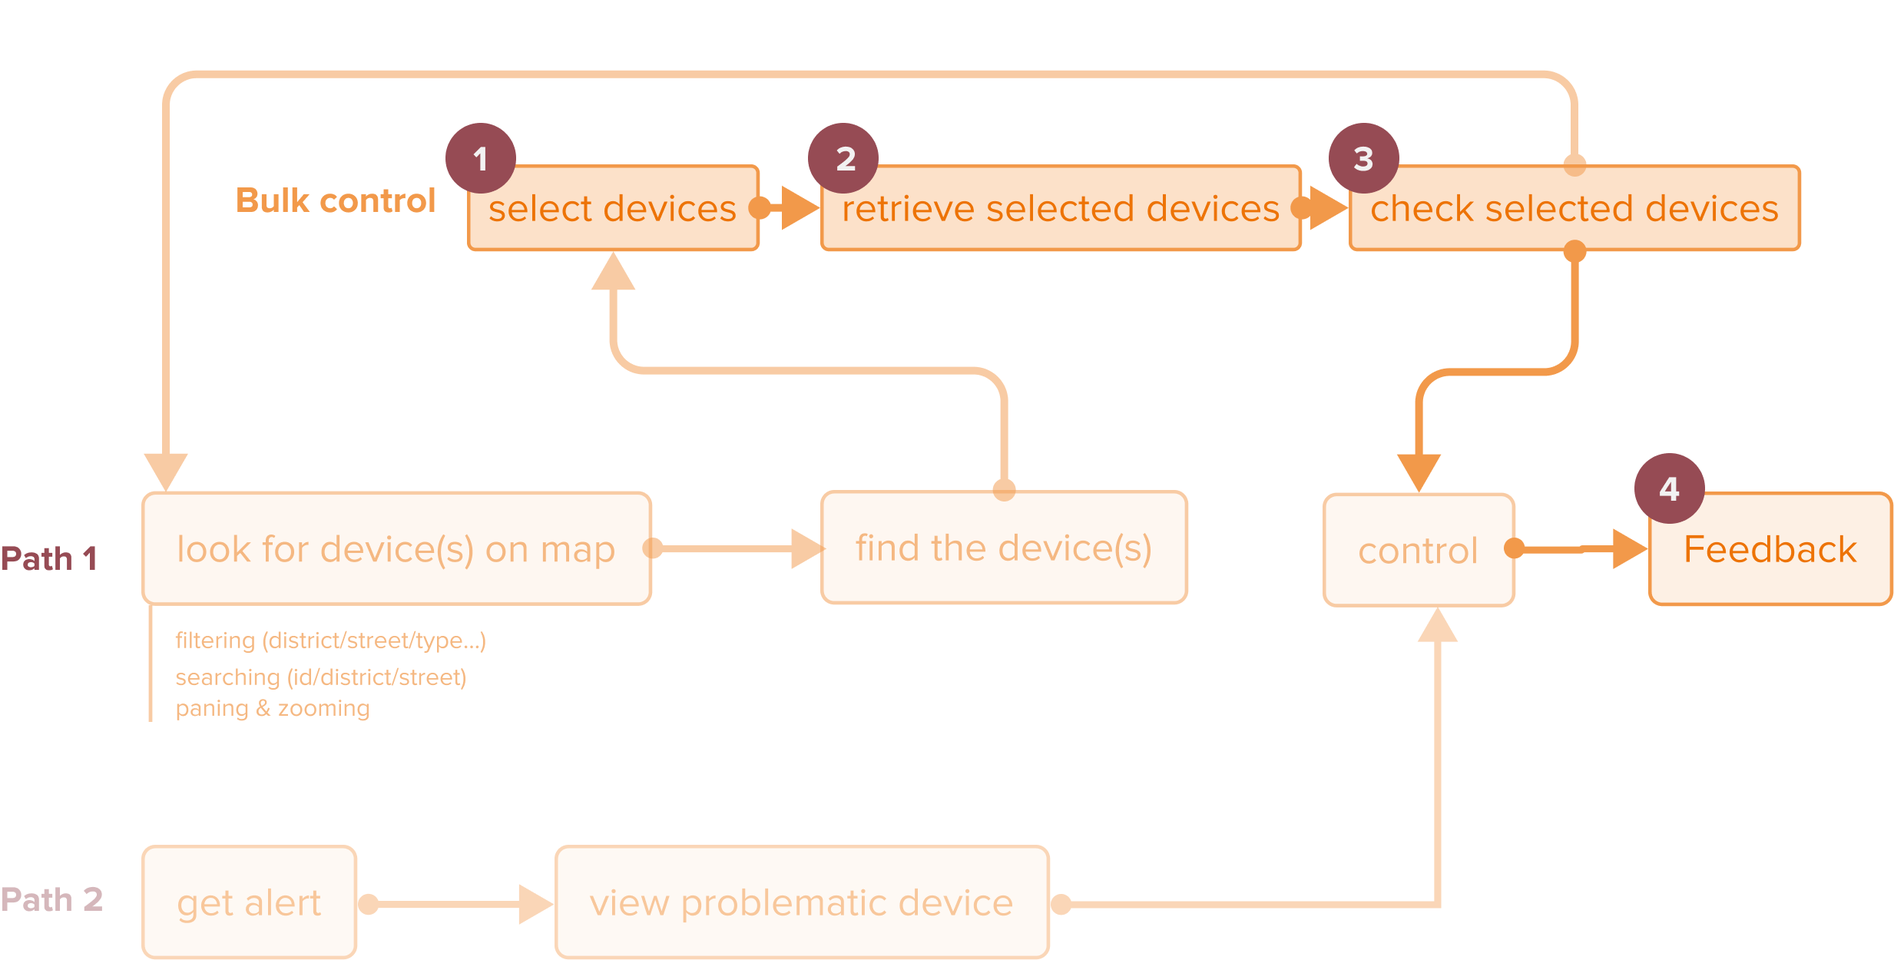
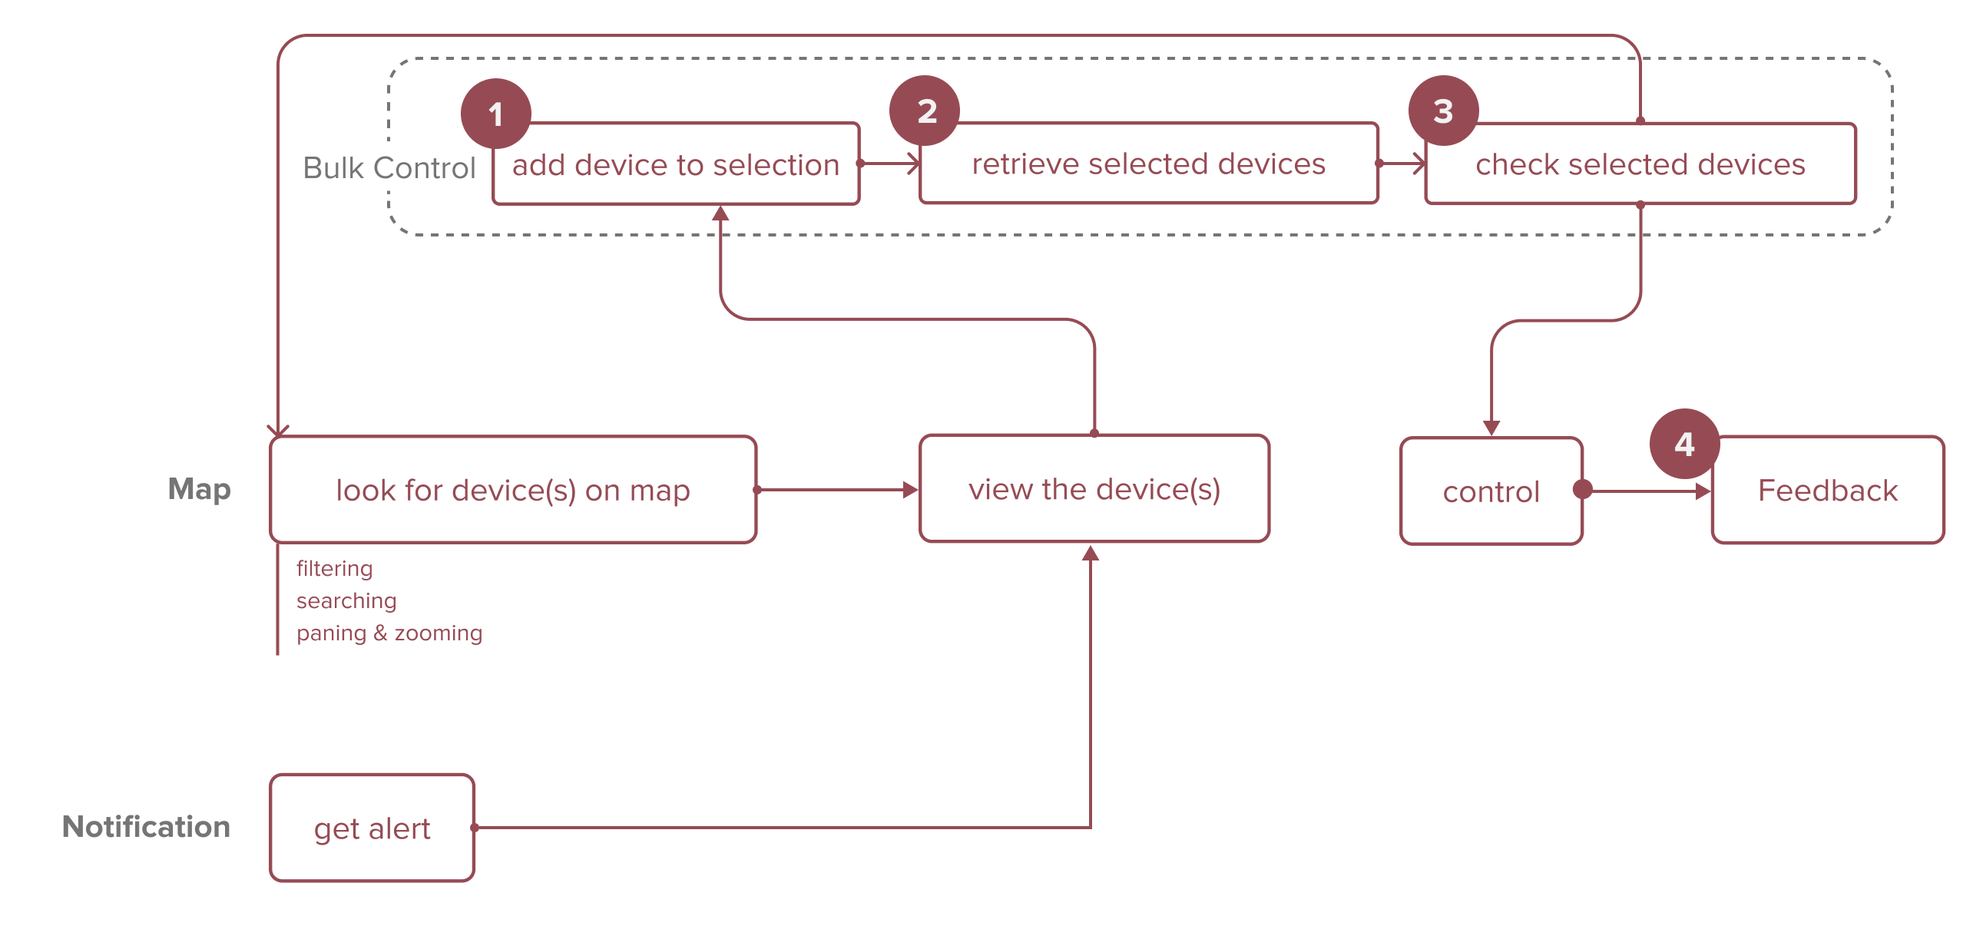
iot rework

Changed region(s): [[0.0, 0.0306, 1.0, 1.0], [0.0624, 0.0917, 0.6557, 0.7645], [0.0, 0.5504, 0.0312, 0.6116]]

diff --git a/src/pages/Designer/IoTBest.js b/src/pages/Designer/IoTBest.js
@@ -364,7 +364,7 @@ class IoTBest extends React.Component {
                             <section className="project_body" id="syn">
                                 <h2>Synthesize</h2>
                                 <h5>Three Scenarios, Three Problems</h5>
-                                {/* <h6></h6> */}
+                                <p>Administrators decide when the lights should turn on and off and how bright they should be based on time, days and areas. These settings are called work plan. There are three scenarios when administrators need to set or change the work plans.</p>
 
                                 <ImageZoom
                                     image={{
@@ -374,27 +374,34 @@ class IoTBest extends React.Component {
                                     }}
 
                                 />
-                                <br />
                                 
                             </section>
 
 
                             <section className="project_body" id="ideate">
                                 <h2>Ideate</h2>
-
-                                <h5>Design Goals</h5>
-                                <div className="project_quote">
-                                    <div className="project_separator_inner_wrapper_small">
-                                        <div className="project_quote_text">1. Automate default plan configuration</div>
-                                        <div className="project_quote_text">2. Preset special plan for special occasions</div>
-                                        <div className="project_quote_text">3. Quickly locate and control of light in emergency</div>
-                                    </div>
-
-                                </div>
-
-                                {/* <ImageZoom
+                                <h5>How might we help administrators work efficiently with the new Smart Street Lights?</h5>
+                                <p>After brainstorming with the engineering team, we decided to focus on these three ideas.</p>
+                                <ImageZoom
                                     image={{
-                                        src: '/images/IoT/problemsolution_lightcontrol.png',
+                                        src: '/images/IoT/features.png',
+                                        alt: '',
+                                        className: 'project_illustration'
+                                    }}
+
+                                />
+
+                         
+
+                            </section>
+                            <section className="project_body" id="design">
+                                <h2>Design</h2>
+                                <h5>User flows and wireframes</h5>
+
+                                <p>So I started with mapping the user flows of each scenario and how the new system is going to support each of the steps. I then wireframed the possible interfaces of the system.</p>
+                                <ImageZoom
+                                    image={{
+                                        src: '/images/IoT/user_flow.png',
                                         alt: '',
                                         className: 'project_illustration'
                                     }}
@@ -402,21 +409,13 @@ class IoTBest extends React.Component {
                                 />
                                 <ImageZoom
                                     image={{
-                                        src: '/images/IoT/idea.png',
+                                        src: '/images/IoT/wireframe.png',
                                         alt: '',
-                                        className: 'project_illustration_medium'
+                                        className: 'project_illustration'
                                     }}
-
-                                /> */}
-
-                            </section>
-                            <section className="project_body" id="design">
-                                <h2>Design</h2>
-                                <h5>User flows and wireframes</h5>
-
-                                {/* <p>So I started with mapping the user flows of each scenario and how the new system was going to support each of the steps. I then wireframed the possible interfaces of the system.</p> */}
-                                <h6>1. Default plan setup: display automations and give controls</h6>
-                                <p>Since the most laborious part of the job was going to be done by the IoT system, the management tool only needs to expose enough information and give enough controls to the users so that they can <b>trust</b> the new system.</p>
+                                />
+                                {/* <h6>1. Smart Default Plan</h6>
+                                <p>Since the most laborious part, the automation, is going to be done by the IoT system, the management tool only needs to show system status and give enough controls to the users so that they can <b>trust</b> the new system.</p>
                                 <ImageZoom
                                     image={{
                                         src: '/images/IoT/daytoday.png',
@@ -434,11 +433,11 @@ class IoTBest extends React.Component {
                                         className: 'project_illustration'
                                     }}
 
-                                />
+                                /> */}
                                  <div className="project_separator">
                                     
                                     <div className="project_separator_inner_wrapper" >
-                                        <div className="project_separator_title">Challenge: how to make work-hour setting more intuitive?</div>
+                                        <div className="project_separator_title">Challenge #1 How to make work-hour setting more intuitive?</div>
                                         <p>A challenge I faced in wireframing the setting interface is how to make the work plan setting interface more intuitive and provide users with more visual hints.</p>
                                     <ImageZoom
                                         image={{
@@ -453,7 +452,7 @@ class IoTBest extends React.Component {
                                 <p>Finally, I decided to first combine these two ways of settings and test the features in usability testing later.</p>
                                     </div>
                                 </div>
-                               
+{/*                                
                                 
                                 <h6>3. Emergency Control</h6>
                                 <p>To improve information navigation, my design allows users to look for and control device(s) on a map and from an alert.</p>
@@ -472,23 +471,13 @@ class IoTBest extends React.Component {
                                         className: 'project_illustration'
                                     }}
 
-                                />
+                                /> */}
                                 <div className="project_separator">
                                     
                                     <div className="project_separator_inner_wrapper" >
-                                        <div className="project_separator_title">Challenge: how to simplify bulk control?
+                                        <div className="project_separator_title">Challenge #2 How to simplify bulk control?
                                         </div>  
-                                        <p>One challenge I encountered was how to allow users to control a group of lights quickly and easily. I introduced the "selected list" and created variations of the interfaces for multi-selection and multi-control feedback.</p>
-                                        {this.state.hide4 ? (<>
-                                    <div className="hiden_content_switch_container text-center">
-                                        <button class="uk-button uk-button-secondary uk-width-1-1" onClick={() => this.toggleHiddenContent("hide4")}><span uk-icon="icon: search"></span> Click to See Detailed Exploration of Bulk Control</button>
-                                    </div></>) : (<>
-                                        <div className="hiden_content_switch_container text-center">
-                                            <button class="uk-button uk-button-secondary uk-width-1-1" onClick={() => this.toggleHiddenContent("hide4")}>Hide Detailed Exploration</button>
-                                        </div>
-                                        {/* ----------------hidden 👇---------------------- */}
-
-                                       
+                                        <p>One challenge I encountered was how to allow users to control a group of lights quickly and easily. I introduced the "selected list" and mapped the user flow.</p>
                                         <ImageZoom
                                             image={{
                                                 src: '/images/IoT/bulkcontrol/bulk_workflow.png',
@@ -500,83 +489,84 @@ class IoTBest extends React.Component {
                                         <p className="project_info">I ideated four ways to select multiple devices.</p>
                                         <ImageZoom
                                             image={{
-                                                src: '/images/IoT/bulkcontrol/select1.png',
+                                                src: '/images/IoT/bulkcontrol/select.gif',
                                                 alt: '',
                                                 className: 'project_illustration'
                                             }}
 
-                                        /><ImageZoom
-                                        image={{
-                                            src: '/images/IoT/bulkcontrol/select2.png',
-                                            alt: '',
-                                            className: 'project_illustration'
-                                        }}
+                                        />
+                                        <p className="project_info">Since administrators usually control lights by defined areas (administrative divisions), the 'selet-an-area' button is more useful for them. Moreover, multi-selection on map is the ideal way to select devices by undefined areas such as all lights at an intersection. So I decided to <b>combine these two (2 & 3)</b>.</p>
 
-                                    />
-                                        <p className="project_info">Since administrators usually control lights by defined areas (administrative divisions), the 'selet-an-area' button is more useful for them. Moreover, multi-selection on map is the ideal way to select devices by undefined areas such as all lights at an intersection. So I decided to <b>combine these two (3 & 4)</b>.</p>
+                                       
+                                        <div className="p-list"><div className="circle_number">2</div>Retrieve Selected Device</div>
+                                        <p className="project_info">Another thing that need to be considered was where the "selected device" button should be located. I wireframed four locations of the button and finally decided to put the button at top since it was the most straightforward version and produced no ambiguity of its scope.</p>
+                                        <Row>
+                                            <Col>
+                                                <ImageZoom
+                                                image={{
+                                                    src: '/images/IoT/bulkcontrol/retrieve_button1.png',
+                                                    alt: '',
+                                                    className: 'project_illustration'
+                                                }}
 
+                                                    />
+                                            </Col>
+                                            <Col>
+                                                <ImageZoom
+                                                        image={{
+                                                            src: '/images/IoT/bulkcontrol/retrieve_button2.png',
+                                                            alt: '',
+                                                            className: 'project_illustration'
+                                                        }}
+
+                                                    />
+                                            </Col>
+                                        </Row>
+                                        
+                                       
+                                        <div className="p-list"><div className="circle_number">3</div>Check Selected Device</div>
+                                        <p className="project_info">As for how to display selected devices, I created the following wireframes.</p>
+                                        <Row>
+                                            <Col>
+                                                <ImageZoom
+                                                    image={{
+                                                        src: '/images/IoT/bulkcontrol/retrieve_display1.png',
+                                                        alt: '',
+                                                        className: 'project_illustration'
+                                                    }}
+
+                                                />
+                                            </Col>
+                                            <Col>
+                                                <ImageZoom
+                                                    image={{
+                                                        src: '/images/IoT/bulkcontrol/retrieve_display2.png',
+                                                        alt: '',
+                                                        className: 'project_illustration'
+                                                    }}
+
+                                                />
+                                            </Col>
+                                        </Row>
+                                       
+                                        
+                                       
+                                       
+                                         <p className="project_info">I eventually decided to show the selected devices on a new page in a grouped table. In addition, Users can also apply advanced filters such as types, luminance so that they can further narrow down the lights they want to control.</p>
                                         <ImageZoom
                                         image={{
-                                            src: '/images/IoT/bulkcontrol/select3.png',
+                                            src: '/images/IoT/bulkcontrol/retrieve_final.png',
                                             alt: '',
                                             className: 'project_illustration_medium'
                                         }}
                                         />
-
-                                        <div className="p-list"><div className="circle_number">2</div>Retrieve Selected Device</div>
-                                        <p className="project_info">One thing that needed to be considered was where the "selected device" button should be located. I wireframed four locations of the button and finally decided to put the button at top since it was the most straightforward version and produced no ambiguity of its scope.</p>
-                                        <ImageZoom
-                                            image={{
-                                                src: '/images/IoT/bulkcontrol/retrieve_button1.png',
-                                                alt: '',
-                                                className: 'project_illustration'
-                                            }}
-
-                                        />
-                                        <ImageZoom
-                                            image={{
-                                                src: '/images/IoT/bulkcontrol/retrieve_button2.png',
-                                                alt: '',
-                                                className: 'project_illustration'
-                                            }}
-
-                                        />
-                                        <div className="p-list"><div className="circle_number">3</div>Check Selected Device</div>
-                                        <p className="project_info">As for how to display selected devices, I created the following wireframes.</p>
-                                        <ImageZoom
-                                            image={{
-                                                src: '/images/IoT/bulkcontrol/retrieve_display1.png',
-                                                alt: '',
-                                                className: 'project_illustration'
-                                            }}
-
-                                        />
-                                        <ImageZoom
-                                            image={{
-                                                src: '/images/IoT/bulkcontrol/retrieve_display2.png',
-                                                alt: '',
-                                                className: 'project_illustration'
-                                            }}
-
-                                        />
-                                        <p className="project_info">I eventually decided to send users to a new page once user click 'view selected device' button on top to give more space for information display so that users can clearly check what are selected. A grouped table was proved to be the most efficient and clear way to display the selected devices.  </p>
-                                        
-                                        <p className="project_info">In addition, Users can also apply advanced filters such as types, luminance or other attributes of the lights so that they can further narrow down the lights they want to control. The challenge is how to display various options and, at the same time, make sure that administrators know what are selected.</p>
-                                        <ImageZoom
+                                         <ImageZoom
                                             image={{
                                                 src: '/images/IoT/bulkcontrol/advancedFilters.png',
                                                 alt: '',
                                                 className: 'project_illustration'
                                             }}
 
-                                        />
-                                        <p className="project_info">The final version the selected device page combines all these features:</p>
-                                        <ImageZoom
-                                        image={{
-                                            src: '/images/IoT/bulkcontrol/retrieve_final.png',
-                                            alt: '',
-                                            className: 'project_illustration'
-                                        }}
                                         />
 
                                         <div className="p-list"><div className="circle_number">4</div>Control Response</div>
@@ -586,7 +576,7 @@ class IoTBest extends React.Component {
                                             image={{
                                                 src: '/images/IoT/bulkcontrol/response.png',
                                                 alt: '',
-                                                className: 'project_illustration'
+                                                className: 'project_illustration_medium'
                                             }}
 
                                         />
@@ -597,13 +587,8 @@ class IoTBest extends React.Component {
                                         */}
                                          
                                        
+{/* 
 
-
-                                        {/* ----------------hidden 👆---------------------- */}
-                                        <div className="hiden_content_switch_container text-center">
-                                            <button class="uk-button uk-button-secondary uk-width-1-1" onClick={() => this.toggleHiddenContent("hide4")}>Hide Detailed Exploration</button>
-                                        </div>
-                                    </>)}
                                 <p>Finally, I developed the wireframes:</p>
                                 <ImageZoom
                                     image={{
@@ -612,15 +597,9 @@ class IoTBest extends React.Component {
                                         className: 'project_illustration'
                                     }}
 
-                                />
+                                /> */}
                                     </div>
                                 </div>
-
-                               
-
-
-                                
-                                <p>After all these, I created high-fidelity interactive prototypes for the usability testing with users.</p>
                             </section>
                             <section className="project_body" id="evaluate">
                                 <h2>Evaluate</h2>
@@ -688,7 +667,7 @@ class IoTBest extends React.Component {
 
                                 />
                                 <div className="image_model_link_container"><Button className="text_link" variant="link" onClick={() => this.triggerModel("/images/IoT/final_special_plan.gif")}>click here to watch the interaction (gif of hi-fi prototypes).</Button></div>
-                                <h6>Emergency Control</h6>
+                                <h6>Map Navigation & Emergency Control</h6>
                                 <p></p>
                                 <li>Quickly locate devices with map and filters</li>
                                 <li>More flexible bulk controls</li>
